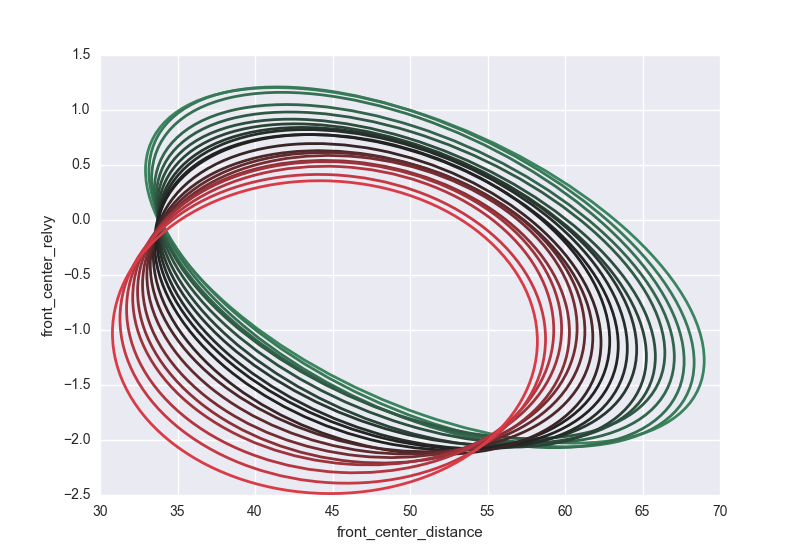
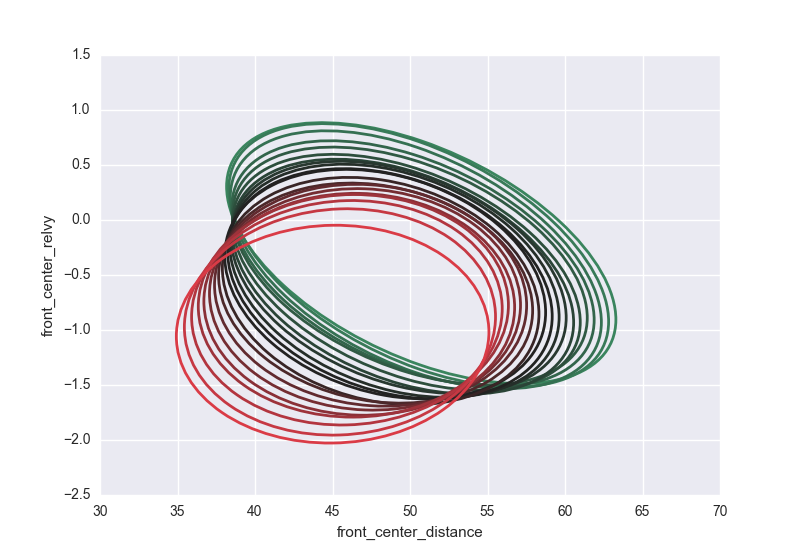
i

Changed region(s): [[0.125, 0.1545, 0.9062, 0.9273]]

diff --git a/src2/plot_2d.py b/src2/plot_2d.py
@@ -11,8 +11,10 @@ import progressbar
 import seaborn as sns
 import numpy as np
 import ddTools as dT
+from math import sqrt
 import repo_env
 from matplotlib.patches import Ellipse
+import math
 
 # label間違ってた問題、影響ある？ seabornのpairplotはlabelで自動色分けできたけど、それ以外は影響ないはず。seabornも結局エラー祭りだったし。
 
@@ -140,6 +142,12 @@ def scatter_all_behavior(data_list2):
     plt.close()
 
 
+def get_filtered_data_list(data_list, x_sample_name, y_sample_name):
+    return filter(
+        lambda plot_data: plot_data[[x_sample_name, y_sample_name]].dropna().shape[0] == 100,
+        data_list)
+
+
 def scatter_each_time(x_sample_name, y_sample_name):
     xlims, ylims = get_lims(x_sample_name, y_sample_name)
     fig = plt.figure()
@@ -164,6 +172,96 @@ def scatter_each_time(x_sample_name, y_sample_name):
         ax.set_ylabel(y_sample_name)
         fig.savefig("{}.png".format(i))
         fig.clf()
+
+
+def __ellipse_with_mean_and_covariance(ax, mean, cov, color):
+    cov = ExtMatrix(cov)
+    eig_val, eig_vec = cov.eig
+
+    # array->mat->arrayでややこしいんやけど
+    def angle(v):
+        v = np.array(v)
+        first_vec = v[:, 0]
+        return np.rad2deg(np.arctan(first_vec[1] / first_vec[0]))
+
+    return Ellipse(xy=mean, width=sqrt(eig_val[0]) * 2, height=sqrt(eig_val[1]) * 2, angle=angle(eig_vec),
+                   alpha=1, edgecolor=color, fill=False, linewidth=2)
+
+
+def scatter_and_ellipse_each_time(data_list2):
+    xlims, ylims = get_lims(data_list2)
+
+    x_name = data_list2[0].columns[0]
+    y_name = data_list2[0].columns[1]
+
+    # numpyをextendしてcolumnつけたほうがマシじゃないか？pandas脱却したい．
+    trial_time_feature_array = np.array([data.as_matrix() for data in data_list2])
+    time_trial_feature_array = trial_time_feature_array.transpose(1, 0, 2)
+
+    fig0, axes0_2d = plt.subplots(3, 2, figsize=(6, 8), sharex=True, sharey=True)
+    fig1, axes1_2d = plt.subplots(3, 2, figsize=(6, 8), sharex=True, sharey=True)
+    fig2, axes2_2d = plt.subplots(3, 2, figsize=(6, 8), sharex=True, sharey=True)
+    fig3, axes3_2d = plt.subplots(1, 2, figsize=(6, 3), sharex=True, sharey=True)
+
+
+
+    flat_axes0 = np.array(axes0_2d).reshape(6)
+    flat_axes1 = np.array(axes1_2d).reshape(6)
+    flat_axes2 = np.array(axes2_2d).reshape(6)
+    flat_axes3 = np.array(axes3_2d).reshape(2)
+
+    axes = list(flat_axes0) + list(flat_axes1) + list(flat_axes2) + list(flat_axes3)
+
+    # repo_env.make_dirs("out", "scatter_ellipse", exist_ok=True)
+    for i, (trial_feature_array, color, ax) in enumerate(zip(time_trial_feature_array, green_to_red_20, axes)):
+        # index_column = math.floor(i / 2.)
+        # if index_column <= 4:
+        #     axes_for_plot = axes0
+        # else:
+        #     axes_for_plot = axes1
+        #     index_column -= 5
+        # index_row = i % 2
+        # print(axes0.shape)
+        #
+        # ax = axes_for_plot[index_column][index_row]
+
+        # fig = plt.figure()
+        # ax = fig.add_subplot(1, 1, 1)
+
+        ax.scatter(*trial_feature_array.T, color=color, s=2)
+
+        mean = np.mean(trial_feature_array, axis=0)
+        cov = np.cov(trial_feature_array, rowvar=False)
+        ellipse = __ellipse_with_mean_and_covariance(ax, mean, cov, color)
+
+        ax.add_patch(ellipse)
+
+        # ax.autoscale()
+        ax.set_xlim(xlims)
+        ax.set_ylim(ylims)
+        # ax.xaxis.set_tick_params(labelsize=13)
+        # ax.yaxis.set_tick_params(labelsize=13)
+        # ax.set_title(r"$\tau={}$".format((20 - i) / 2.))#, fontsize=18)
+        ax.set_title(r"{} sec".format(- (20 - i) / 2.))#, fontsize=18)
+        # コピペ
+        # xlim = ax.get_xlim()
+        # ylim = ax.get_ylim()
+        # aspect = (xlim[1] - xlim[0]) / (ylim[1] - ylim[0])
+        # ax.set_aspect(aspect)
+
+        # fig.savefig(repo_env.path("out", "scatter_ellipse", "{}_{}{}.png".format(x_name, y_name, i)))
+        # fig.clf()
+
+    figs = (fig0, fig1, fig2, fig3)
+
+    for i, fig in enumerate(figs):
+        fig.text(0.5, 0.025, x_name, ha='center', va='center')  # , fontsize=18)
+        fig.text(0.04, 0.5, y_name, ha='center', va='center', rotation='vertical')  # , fontsize=18)
+        # fig.subplots_adjust(left=0.1, top=0.99, bottom=0.06)
+        if i == 3:
+            fig.subplots_adjust(bottom=0.2)
+        fig.savefig(repo_env.path("out", "scatter_ellipse_{}_{}{}.pdf".format(x_name, y_name, i)))
+
 
 
 def scatter_animation(data_list2):

diff --git a/src2/four_dim.py b/src2/four_dim.py
@@ -23,69 +23,35 @@ from sklearn.decomposition import PCA
 
 if __name__ == '__main__':
 
-
-
-
     if not os.path.exists(join(repo_env.DATA_DIR, "data_list")):
-        print os.path.exists(join(repo_env.DATA_DIR, "data_list"))
-        data_list_unnecessary = list(dT.load_each_lc(105))
-        # 5フレームごと、前方車両の距離と相対速度だけ。
-        saved_data = [data[::5][['front_center_distance', 'front_center_relvy']] for data in data_list_unnecessary]
-        pd.to_pickle(saved_data, join(repo_env.DATA_DIR, "data_list"))
+        features = ["front_center_distance", "front_center_relvy"]
+
+        delc = dT.DataEachLC(features=features)
+        features_df_list = delc.extract_columns(features + delc.prevs)
+        pd.to_pickle(features_df_list, join(repo_env.DATA_DIR, "data_list"))
     else:
-        saved_data = pd.read_pickle(join(repo_env.DATA_DIR, "data_list"))
-
-    # first axis 各LCトライアル, second axis 時刻, third axis 特徴
-    data_list = saved_data
-
-    filtered_data_list = filter(
-        lambda plot_data: plot_data.dropna().shape[0] == 105 / 5,
-        data_list
-    )
-    print("105フレーム揃ってる車線変更データ数は{}個です".format(len(filtered_data_list)))
-
-
-    def add_prev_diff(df):
-        for i in df:
-            n = [None]
-            n.extend(df[:-1][i])
-            df["prev_{}".format(i)] = n
-            kwargs = {"diff_{}".format(i): lambda df: df[i] - df["prev_{}".format(i)]}
-            df = df.assign(**kwargs)
-        return df.dropna().set_index(np.arange(0, 100, 5))
-
-
-    filtered_data_with_prev_diff_list = [
-        add_prev_diff(data) for data in filtered_data_list
-    ]
-    data_list_diffs = [
-        data[["diff_front_center_distance", "diff_front_center_relvy"]] for data in filtered_data_with_prev_diff_list
-    ]
-
-    # plot_2d.scatter_each_behavior2(data_list_diffs)
-    # plot_2d.scatter_all_behavior2(data_list_diffs)
-
-    data_list_add_prev = [
-        data[["front_center_distance", "front_center_relvy", "prev_front_center_distance", "prev_front_center_relvy"]]
-        for data in filtered_data_with_prev_diff_list
-    ]
+        features_df_list = pd.read_pickle(join(repo_env.DATA_DIR, "data_list"))
 
     # dataframeのリストをそのままnparrayに突っ込んでも3次元arrayにならない。（おそらくpandas3大クソ仕様のうちの一つの__iter__()をcolumnsにしているせい）
-    filtered_3d_array = np.array([data.as_matrix() for d in data_list_add_prev])
-    # first axis 時刻, second axis 各LCトライアル, third axis 特徴
-    array_each_time = filtered_3d_array.transpose(1, 0, 2)
-    # alltime_and_trial = filtered_3d_array.reshape()でもかわらずか？
-    shape = array_each_time.shape
-    alltime_and_trial = array_each_time.reshape(shape[0]*shape[1],shape[2])
+    data_3d_array = np.array([data.as_matrix() for data in features_df_list])
+    data_array_each_time = data_3d_array.transpose(1, 0, 2)
+    # ここメソッド化したいが．．．ddToolsか？
 
-    data = alltime_and_trial
-    print(data.shape)
+    shape = data_array_each_time.shape
+    alltime_and_trial = data = data_array_each_time.reshape(shape[0] * shape[1], shape[2])
+
+    import sklearn
+    scaler = sklearn.preprocessing.MinMaxScaler()
+    normalized_data = scaler.fit_transform(data)
+    print(normalized_data.shape)
     # 主成分分析による次元削減
     pca = PCA(n_components=4)
-    pca.fit(data)
-    data_pca = pca.transform(data)
-    print(pca.get_covariance())
-    print(pca.explained_variance_ratio_)
+    pca.fit(normalized_data)
+    pca_data = pca.transform(normalized_data)
+
+    print(pca.components_)
+    print("1:{:.2%}, 2:{:.2%}, 3:{:.2%}, 4:{:.2%} ".format(*pca.explained_variance_ratio_))
+
 
     # 主成分分析後のサイズ
-    print(data_pca.shape)
+    print(pca_data.shape)

diff --git a/src2/ddTools.py b/src2/ddTools.py
@@ -26,7 +26,7 @@ columns = ('label',
 
 class DataEachLC:
     @classmethod
-    def load_each_lc(cls, deci_second):
+    def __load_each_lc(cls, deci_second):
         def load_right_divide_9000():
 
             def load(behavior, lc_series_num, type):
@@ -197,7 +197,7 @@ class DataEachLC:
             self.data = pd.read_pickle(pickle_path)
         else:
             # load->5刻みに、特定の特徴を抜き出す->全フレーム揃ってるやつだけ->0.5sec前の値と、それの差分の列を追加
-            self.data = self.__class__.load_each_lc(deci_second)
+            self.data = self.__class__.__load_each_lc(deci_second)
             self.data = (data[::frame_rate][features] for data in self.data)
             self.data = (
                 one_lc for one_lc in self.data

diff --git a/src2/plot_interface.py b/src2/plot_interface.py
@@ -20,7 +20,7 @@ if __name__ == '__main__':
         # plot_2d.contours(features_df_list)
         plot_2d.scatter_animation(features_df_list)
 
-    plot_features()
+    # plot_features()
 
     def plot_diffs():
         diffs_df_list = delc.extract_columns(delc.diffs)
@@ -61,3 +61,9 @@ if __name__ == '__main__':
         plot_2d.contours('front_center_distance', 'front_center_relvy')
         plot_2d.scatter_all_behavior('front_center_distance', 'front_center_relvy')
         plot_2d.scatter_each_time('front_center_distance', 'front_center_relvy')
+
+    def plot_scatter_and_contour():
+        features_df_list = delc.extract_columns(features)
+        plot_2d.scatter_and_ellipse_each_time(features_df_list)
+
+    plot_scatter_and_contour()
